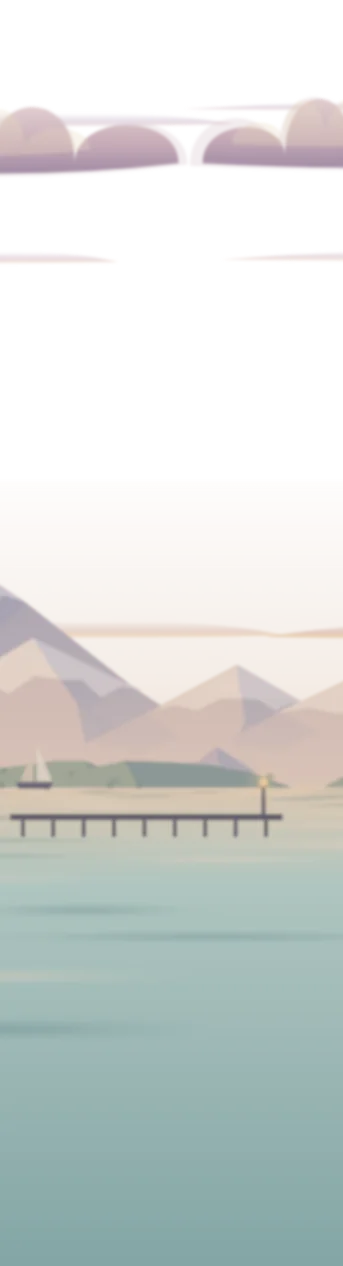
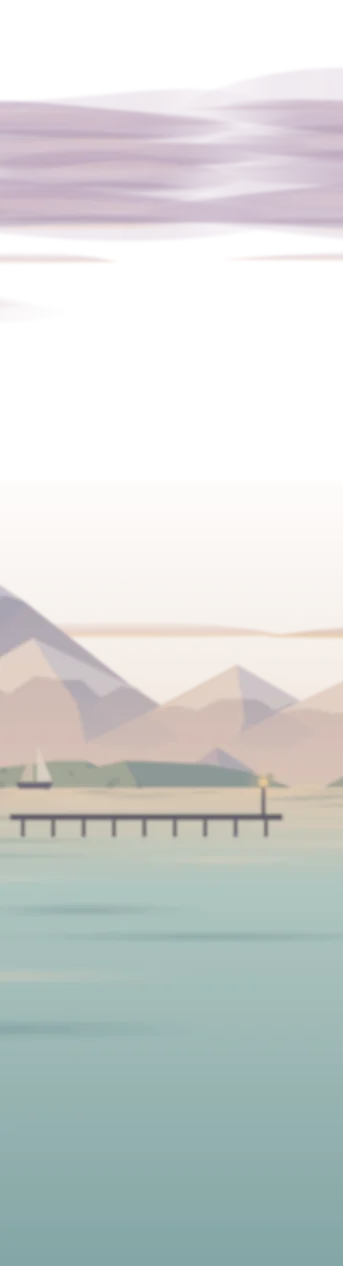
Brush clouds, night moon, detailed wood stove
Claude-Session: https://claude.ai/code/session_01EHtmNVvLo6L45VFzzqfGpi

Changed region(s): [[0.0, 0.0616, 1.0, 0.1848]]

diff --git a/assets/js/nature.js b/assets/js/nature.js
@@ -453,6 +453,30 @@ function sunsetCloud(x, y, w, h, sunX, tones) {
     + `<path d="${shape(1, 0)}" fill="url(#${id})"/>`
     + `<path d="${shape(.62, -h * .3)}" fill="${rim}" opacity=".32" transform="translate(${n1(side * w * .12)} 0)"/>`;
 }
+// 筆でなでたような横長の雲（作品 Sunset Session の空の描き方）：両端がすっと消える細長い帯を、少しずつずらして重ねる。
+// 輪郭の線もぼかしも使わず、帯の芯・まわり・下の縁（夕日の照り返し）を透明度の違う面で重ねて柔らかく見せる
+function brushCloud(x, y, w, h, g, sunX, tones) {
+  const [body, core, under, rim] = tones, id = `bc${gid++}`, ids = [body, core, under, rim].map((c, i) => [`${id}${i}`, c]);
+  let s = `<defs>${ids.map(([k, c]) => `<linearGradient id="${k}"><stop offset="0" stop-color="${c}" stop-opacity="0"/><stop offset=".22" stop-color="${c}" stop-opacity=".85"/><stop offset=".7" stop-color="${c}" stop-opacity=".9"/><stop offset="1" stop-color="${c}" stop-opacity="0"/></linearGradient>`).join('')}</defs>`;
+  // 1 本の帯：上下の縁がゆるく波打ち、両端は細くなる
+  const streak = (cx, cy, L, t, fill, op) => {
+    const N = 14, ph = g() * 6, top = [], bot = [];
+    for (let i = 0; i <= N; i++) { const u = i / N, xx = cx - L / 2 + L * u, taper = Math.pow(Math.sin(Math.PI * u), .55), wave = Math.sin(u * 5 + ph) * t * .18; top.push([xx, cy - t / 2 * taper + wave]); bot.push([xx, cy + t / 2 * taper * .8 + wave * .6]); }
+    return `<path d="M${top.map((q) => `${n1(q[0])} ${n2(q[1])}`).join('L')}L${bot.reverse().map((q) => `${n1(q[0])} ${n2(q[1])}`).join('L')}Z" fill="url(#${fill})" opacity="${n2(op)}"/>`;
+  };
+  const toSun = Math.max(0, 1 - Math.abs(x - sunX) / 90); // 太陽に近い雲ほど芯が明るい
+  const n = 3 + Math.floor(g() * 3);
+  for (let i = 0; i < n; i++) {
+    const cx = x + (g() - .5) * w * .4, cy = y + (i - (n - 1) / 2) * h * .38 + (g() - .5) * h * .2, L = w * (.55 + g() * .6), t = h * (.35 + g() * .3);
+    s += streak(cx, cy, L * 1.12, t * 1.9, ids[0][0], .28);                         // まわりのかすみ
+    s += streak(cx + (g() - .5) * 2, cy, L, t, ids[0][0], .75);                      // 帯
+    s += streak(cx + (g() - .5) * 3, cy - t * .12, L * .62, t * .42, ids[1][0], .45 + toSun * .35); // 芯の明るいところ
+    s += streak(cx + (g() - .5) * 3, cy + t * .34, L * .7, t * .3, ids[2][0], .5);   // 下の影
+    s += streak(cx + (g() - .5) * 3, cy + t * .5, L * .5, t * .16, ids[3][0], .25 + toSun * .45); // 下の縁の夕日の照り返し
+  }
+  track(x - w, y - h); track(x + w, y + h);
+  return s;
+}
 // 細くたなびく雲（地平線近く）：下の縁が夕日に照らされる
 function streakCloud(x0, x1, y, h, c, lit) {
   const id = `st${gid++}`;
@@ -1763,7 +1787,9 @@ export function sceneCove(W, stops, { night = false } = {}) {
   // 夕焼けの雲：高いところは淡い藤色、低いところほど夕日に染まる。太陽側の縁が金色に光る（重いぼかしは使わない）
   const sx = at(W, FACTORS.far)(1, W * .62);
   far += streakCloud(-10, fw + 10, 9, 1.1, '#d9c3dc', '#f3d6d8') + streakCloud(-10, fw + 10, 20, 1, '#e0bfcf', '#fbd9c6');
-  for (let x = R(-12, 4); x < fw + 20; x += R(16, 30)) { const y = R(12, 46), k = (y - 12) / 34, big = R(.8, 1.5); far += sunsetCloud(x, y, R(20, 34) * big, R(3, 5) * big, sx, [mixC('#f6e0e2', '#ffe9cc', k), mixC('#dcbccb', '#f2c2ae', k), mixC('#b39bb9', '#cf9ea2', k), '#fff0cf']); }
+  // 雲は作品の空のように、筆でなでた横長の帯で（前のもこもこの雲は、乱数の呼び出しだけ残して描かない）
+  const gC = hrng(fw + 1.9);
+  for (let x = R(-12, 4); x < fw + 20; x += R(16, 30)) { const y = R(12, 46), k = (y - 12) / 34, big = R(.8, 1.5); const cw = R(20, 34) * big, ch = R(3, 5) * big; sunsetCloud(x, y, cw, ch, sx, ['#fff', '#fff', '#fff', '#fff']); far += brushCloud(x, y, cw * 1.5, ch * 1.1, gC, sx, [mixC('#d6bdd6', '#efbcb6', k), mixC('#f4dde2', '#ffe2c4', k), mixC('#b7a0c0', '#d49fa8', k), mixC('#ffd9c4', '#ffd09a', k)]); }
   far += streakCloud(-10, fw + 10, hz - 13, 1.4, '#e7b6ae', '#ffcf8f');
   // 夜（入口のランプで夜にしたとき）は夕日を描かない（乱数の呼び出しだけ合わせる）
   { const sun = setSun(sx, hz - 6, 4.8); if (!night) far += sun; }
@@ -1869,9 +1895,19 @@ export function sceneCove(W, stops, { night = false } = {}) {
   frame += guard(Z, (k) => frond(W + 3, -3, 40 * k, -150, '#3b4a3f', '#4d5d4c', { droop: 1.2 })) + guard(Z, (k) => frond(W + 2, 6, 28 * k, -118, '#34423a', '#46574a', { droop: 1.1 }));
   for (const side of [-1, 1]) for (let i = 0; i < 4; i++) { const x = side < 0 ? R(-3, W * .14) : W - R(-3, W * .14); ground += guard(Z, (k) => tuft(x, 106, R(12, 18) * k, ['#5f5b3c', '#77704a', '#8f8558'], 9)); }
   move += tileGround(W, stops, ground);
+  // 夜：夕日の代わりに満月と、またたく星（どちらも画面に直接置くので、夜の色に変換されずに光る）。月の光の道は museum.js
+  let skyDom = null, moonAt = null;
+  if (night) {
+    const gN = hrng(fw + 5.3), mr = W < 80 ? 3.1 : 3.9, mx = at(W, FACTORS.far)(.35, W * .5), my = W < 80 ? 22 : 20;
+    moonAt = [mx, hz];
+    const bright = [];
+    for (let i = 0; i < fw * .09; i++) { const x = gN() * fw, y = 3 + Math.pow(gN(), 1.4) * 34; if (Math.hypot(x - mx, y - my) < 11) continue; bright.push([n1(x), n1(y), n2(.9 + gN() * 1.2), ['#fffaf0', '#e3ebff', '#ffe9c8'][Math.floor(gN() * 3)], n2(gN() * 5)]); }
+    skyDom = { moon: { x: mx, y: my, r: mr, kind: 'full', halo: true }, bright };
+  }
   return {
+    skyDom,
     sky: 'linear-gradient(#aebbd6 0%, #e3b8b3 28%, #f3c69c 46%, #f8dcb0 58%, #f6e2c4 62%, #bfd9d3 66%, #86b3b3 100%)',
-    far: [fw, far], mid: [mw, mid], move: [vw, move], frame, fx: 'cove', glowDefault: [255, 214, 170], foam: 79, harbor, plane: true, houses, sunpath: [sx, hz],
+    far: [fw, far], mid: [mw, mid], move: [vw, move], frame, fx: 'cove', glowDefault: [255, 214, 170], foam: 79, harbor, plane: true, houses, sunpath: night ? moonAt : [sx, hz], moonpath: night,
     curtain: ['#1c3a3a', '#2a5550', '#3f7f73', '#5aa77a', '#7cc0a0'],
   };
 }
@@ -2058,6 +2094,47 @@ export function ferrisSVG(r, part = 'wheel') {
   for (let k = 0; k < 36; k++) { const a = k / 36 * Math.PI * 2; s += `<circle cx="${n1(Math.cos(a) * r)}" cy="${n1(Math.sin(a) * r)}" r=".26" fill="${lamp[k % 4]}"/>`; }
   for (let k = 0; k < FERRIS_N; k++) for (let t = .38; t < .86; t += .14) { const a = k / FERRIS_N * Math.PI * 2; s += `<circle cx="${n1(Math.cos(a) * r * t)}" cy="${n1(Math.sin(a) * r * t)}" r=".14" fill="#ffe7a8" opacity=".75"/>`; }
   return `<svg viewBox="${n1(-R2)} ${n1(-R2)} ${n1(R2 * 2)} ${n1(R2 * 2)}" xmlns="http://www.w3.org/2000/svg">${s}</svg>`;
+}
+// 薪ストーブ（鋳物）：脚つきの箱、縁の張り出した天板、焚き口の扉（蝶番と取っ手）、灰受け、煙突は壁の丸い受け口へ。
+// 焚き口のガラスの奥は、おき火で下ほど明るく、薪が 2 本交差する。炎と火の粉、壁と床に広がる火の光は museum.js
+function woodStove(m, k, sw, sh) {
+  const top = 80 - sh, L = m - sw / 2, gx = m - sw * .32, gy = top + sh * .3, gw = sw * .64, gh = sh * .42, id = `ws${gid++}`;
+  const P = (d, f, o) => `<path d="${d}" fill="${f}"${o != null ? ` opacity="${o}"` : ''}/>`;
+  let s = rglow(m, 80 - sh * .6, 16 * k, '#ff9a4a', .45);
+  s += `<defs><linearGradient id="${id}g" x1="0" y1="0" x2="0" y2="1"><stop offset="0" stop-color="#4a2014"/><stop offset=".45" stop-color="#a8431f"/><stop offset=".8" stop-color="#f08a3a"/><stop offset="1" stop-color="#ffc56a"/></linearGradient>`
+    + `<linearGradient id="${id}b" x1="0" y1="0" x2="1" y2="0"><stop offset="0" stop-color="#171311"/><stop offset=".5" stop-color="#231d19"/><stop offset="1" stop-color="#1a1512"/></linearGradient></defs>`;
+  // 脚（少し外に反る）
+  for (const sx of [-1, 1]) s += P(`M${n1(m + sx * (sw / 2 - 1.1 * k))} 78.6L${n1(m + sx * (sw / 2 - .4 * k))} 78.6L${n1(m + sx * (sw / 2 - .05 * k))} 80.3L${n1(m + sx * (sw / 2 - .7 * k))} 80.3Z`, '#1a1512');
+  // 胴（角を少し丸く）と、左右の縁の暗い面
+  s += `<rect x="${n1(L)}" y="${n1(top + .9 * k)}" width="${n1(sw)}" height="${n1(sh - 1.5 * k)}" rx="${n1(.35 * k)}" fill="url(#${id}b)"/>`;
+  s += P(`M${n1(L)} ${n1(top + 1 * k)}h${n1(.55 * k)}V${n1(78.8)}h${n1(-.55 * k)}Z`, '#120f0d') + P(`M${n1(L + sw - .55 * k)} ${n1(top + 1 * k)}h${n1(.55 * k)}V${n1(78.8)}h${n1(-.55 * k)}Z`, '#120f0d');
+  // 天板：縁が張り出し、上の面は火の熱でほんのり赤い
+  s += `<rect x="${n1(L - .45 * k)}" y="${n1(top + .15 * k)}" width="${n1(sw + .9 * k)}" height="${n1(.8 * k)}" rx="${n1(.2 * k)}" fill="#2b2420"/>` + P(`M${n1(L - .3 * k)} ${n1(top + .15 * k)}h${n1(sw + .6 * k)}v${n1(.22 * k)}h${n1(-sw - .6 * k)}Z`, '#5a4034', .8);
+  // 胴の飾りの帯
+  s += P(`M${n1(L + .8 * k)} ${n1(top + 1.6 * k)}h${n1(sw - 1.6 * k)}v${n1(.28 * k)}h${n1(-sw + 1.6 * k)}Z`, '#2c2521');
+  // 焚き口の扉（ガラスより一回り大きい板）と蝶番・取っ手
+  s += `<rect x="${n1(gx - .7 * k)}" y="${n1(gy - .7 * k)}" width="${n1(gw + 1.4 * k)}" height="${n1(gh + 1.4 * k)}" rx="${n1(.4 * k)}" fill="#2a2320"/>`;
+  for (const t of [.22, .78]) s += `<rect x="${n1(gx - 1.05 * k)}" y="${n1(gy + gh * t - .35 * k)}" width="${n1(.5 * k)}" height="${n1(.7 * k)}" rx="${n1(.12 * k)}" fill="#3a302a"/>`;
+  s += `<rect x="${n1(gx + gw + .25 * k)}" y="${n1(gy + gh * .28)}" width="${n1(.34 * k)}" height="${n1(gh * .44)}" rx="${n1(.17 * k)}" fill="#4a3b31"/>`;
+  // ガラスの奥：おき火で下ほど明るい。交差する 2 本の薪と、薪の下の縁のおき火
+  s += `<rect x="${n1(gx)}" y="${n1(gy)}" width="${n1(gw)}" height="${n1(gh)}" rx="${n1(.3 * k)}" fill="url(#${id}g)"/>`;
+  const ly = gy + gh * .8;
+  s += `<g transform="rotate(-9 ${n1(m)} ${n1(ly)})"><rect x="${n1(gx + gw * .1)}" y="${n1(ly - .45 * k)}" width="${n1(gw * .72)}" height="${n1(.9 * k)}" rx="${n1(.45 * k)}" fill="#2c1a12"/><rect x="${n1(gx + gw * .14)}" y="${n1(ly + .2 * k)}" width="${n1(gw * .64)}" height="${n1(.25 * k)}" rx="${n1(.12 * k)}" fill="#ff8a3a" opacity=".85"/></g>`;
+  s += `<g transform="rotate(11 ${n1(m)} ${n1(ly)})"><rect x="${n1(gx + gw * .2)}" y="${n1(ly - .35 * k)}" width="${n1(gw * .7)}" height="${n1(.8 * k)}" rx="${n1(.4 * k)}" fill="#3a2116"/><rect x="${n1(gx + gw * .24)}" y="${n1(ly + .22 * k)}" width="${n1(gw * .6)}" height="${n1(.2 * k)}" rx="${n1(.1 * k)}" fill="#ffb356" opacity=".8"/></g>`;
+  s += `<ellipse cx="${n1(m)}" cy="${n1(gy + gh - .25 * k)}" rx="${n1(gw * .42)}" ry="${n1(.35 * k)}" fill="#ffd27a" opacity=".75"/>`;
+  // ガラスの上の縁は煤で暗く
+  s += P(`M${n1(gx)} ${n1(gy + .3 * k)}Q${n1(gx)} ${n1(gy)} ${n1(gx + .3 * k)} ${n1(gy)}H${n1(gx + gw - .3 * k)}Q${n1(gx + gw)} ${n1(gy)} ${n1(gx + gw)} ${n1(gy + .3 * k)}V${n1(gy + gh * .22)}H${n1(gx)}Z`, '#2a120b', .45);
+  // 灰受けの引き出し
+  s += `<rect x="${n1(gx - .2 * k)}" y="${n1(gy + gh + 1.2 * k)}" width="${n1(gw + .4 * k)}" height="${n1(1.1 * k)}" rx="${n1(.2 * k)}" fill="#2a2320"/><rect x="${n1(m - .6 * k)}" y="${n1(gy + gh + 1.55 * k)}" width="${n1(1.2 * k)}" height="${n1(.35 * k)}" rx="${n1(.17 * k)}" fill="#4a3b31"/>`;
+  // 扉のまわりに当たる火の照り返し
+  s += P(`M${n1(gx - .7 * k)} ${n1(gy + gh + .7 * k)}h${n1(gw + 1.4 * k)}v${n1(.22 * k)}h${n1(-gw - 1.4 * k)}Z`, '#ff9a4a', .35);
+  // 煙突：天板から上へ。途中に継ぎ目の帯、上は曲がって壁の丸い受け口へ入る
+  const px = m + 2 * k, pw = 1.4 * k, py = 55;
+  s += P(`M${n1(px)} ${n1(top + .2 * k)}V${n1(py)}h${n1(pw)}V${n1(top + .2 * k)}Z`, '#1d1916') + P(`M${n1(px + pw * .62)} ${n1(top + .2 * k)}V${n1(py)}h${n1(pw * .38)}V${n1(top + .2 * k)}Z`, '#15110f');
+  for (const yy of [top - 2.2 * k, py + 2.4 * k]) s += `<rect x="${n1(px - .15 * k)}" y="${n1(yy)}" width="${n1(pw + .3 * k)}" height="${n1(.45 * k)}" rx="${n1(.1 * k)}" fill="#2a2522"/>`;
+  s += `<circle cx="${n1(px + pw / 2)}" cy="${n1(py - .3 * k)}" r="${n1(1.55 * k)}" fill="#2a2320"/><circle cx="${n1(px + pw / 2)}" cy="${n1(py - .3 * k)}" r="${n1(1.2 * k)}" fill="#1c1714"/>`;
+  s += P(`M${n1(px)} ${n1(py + .5 * k)}V${n1(py - .3 * k)}A${n1(pw / 2)} ${n1(pw / 2)} 0 0 1 ${n1(px + pw)} ${n1(py - .3 * k)}V${n1(py + .5 * k)}Z`, '#1d1916');
+  return s;
 }
 // 薪ストーブの火（揺れる炎と、舞い上がる火の粉）
 export function fireSVG() {
@@ -2517,7 +2594,7 @@ export function sceneAttic(W, stops, { birdGap = -1 } = {}) {
     if (shW >= 10) mid += shelf(m - shW / 2, 26, shW) + shelf(m - shW / 2, 40, shW);
     // 薪ストーブは床に置き、煙突は壁ぞいに天井へ（すき間が狭いときは置かない）
     // 薪ストーブ（鋳物の箱に脚、焚き口のガラス、上に煙突）。家具に合わせて大きめに
-    if (gap >= 11) { const k = 2.1, sw = 8 * k, sh = 9 * k, top = 80 - sh; mid += rglow(m, 80 - sh * .6, 16 * k, '#ff9a4a', .45) + `<path d="M${n1(m - sw / 2)} ${n1(79)}v${n1(-sh + 1)}h${n1(sw)}v${n1(sh - 1)}Z" fill="#1d1916"/><path d="M${n1(m - sw / 2 - .6)} ${n1(top)}h${n1(sw + 1.2)}v1h${n1(-sw - 1.2)}Z" fill="#2a2522"/><path d="M${n1(m - sw / 2 + .6)} 79v1.2M${n1(m + sw / 2 - .6)} 79v1.2" stroke="#1d1916" stroke-width=".8"/><rect x="${n1(m - sw * .32)}" y="${n1(top + sh * .3)}" width="${n1(sw * .64)}" height="${n1(sh * .42)}" rx=".4" fill="#ff8a3a"/><rect x="${n1(m - sw * .32)}" y="${n1(top + sh * .3)}" width="${n1(sw * .64)}" height="${n1(sh * .42)}" rx=".4" fill="none" stroke="#3a3430" stroke-width=".6"/><path d="M${n1(m + 2 * k)} ${n1(top)}V52h${n1(1.4 * k)}V${n1(top)}Z" fill="#1d1916"/><ellipse cx="${n1(m + 2.7 * k)}" cy="52.4" rx="${n1(2.2 * k)}" ry="${n1(1.3 * k)}" fill="#2a1c12"/><ellipse cx="${n1(m + 2.7 * k)}" cy="52.4" rx="${n1(1.5 * k)}" ry="${n1(.85 * k)}" fill="#4a3a2c"/>`; stove = [m, 80, k]; }
+    if (gap >= 11) { const k = 2.1, sw = 8 * k, sh = 9 * k; mid += woodStove(m, k, sw, sh); stove = [m, 80, k]; }
   }
   // 壁に掛けたスケートボード：作品の枠にかからないときだけ
   const sk = [[wallX + 8, 26, '#d4d0b5', '#b8604a'], [wallX + 14, 27, '#3f5d59', '#e2b36f']];

diff --git a/assets/css/museum.css b/assets/css/museum.css
@@ -889,6 +889,14 @@ body.choosing .loader-choose { opacity: 1; transform: none; pointer-events: auto
 @keyframes refl { from { transform: translateX(-56%) scaleX(.8); opacity: .25; } to { transform: translateX(-44%) scaleX(1.1); opacity: .55; } }
 .puddle-shine { border-radius: 50%; background: radial-gradient(closest-side, rgba(255, 220, 150, .5), rgba(255, 200, 115, .18) 55%, transparent); mix-blend-mode: screen; animation: pshine 3.2s ease-in-out infinite alternate; }
 @keyframes pshine { from { opacity: .35; transform: scaleX(.92); } to { opacity: 1; transform: scaleX(1.06); } }
+/* 薪ストーブの火の光（壁と床）。2 枚の周期をずらして、揺れがくり返しに見えないように */
+.firelight { pointer-events: none; mix-blend-mode: screen; }
+.firelight i { position: absolute; inset: 0; border-radius: 50%; will-change: opacity, transform; }
+.firelight.wall i { background: radial-gradient(closest-side, rgba(255, 150, 70, .08), rgba(255, 150, 70, .08) 20%, rgba(255, 140, 64, .3) 34%, rgba(255, 130, 60, .13) 58%, rgba(255, 120, 50, 0)); animation: fireflick 2.3s linear infinite; }
+.firelight.wall i + i { background: radial-gradient(closest-side, rgba(255, 190, 110, 0) 18%, rgba(255, 190, 110, .16) 32%, rgba(255, 160, 80, 0) 64%); animation-duration: 3.7s; animation-direction: reverse; }
+.firelight.floor i { background: radial-gradient(closest-side, rgba(255, 160, 80, .5), rgba(255, 130, 60, .18) 50%, rgba(255, 120, 50, 0)); transform-origin: 50% 0; animation: fireflick 1.9s linear infinite; }
+.firelight.floor i + i { animation-duration: 3.1s; animation-delay: -1.2s; opacity: .6; }
+@keyframes fireflick { 0% { opacity: .78; transform: scale(1); } 11% { opacity: .96; transform: scale(1.02); } 19% { opacity: .7; } 33% { opacity: 1; transform: scale(1.03); } 46% { opacity: .82; transform: scale(.99); } 58% { opacity: .94; } 66% { opacity: .68; transform: scale(1); } 79% { opacity: .97; transform: scale(1.025); } 90% { opacity: .76; } 100% { opacity: .78; transform: scale(1); } }
 .stove-fire .flame { transform-box: fill-box; transform-origin: 50% 100%; animation: flame .55s steps(3, end) infinite alternate; }
 @keyframes flame { 0% { transform: scale(1, 1); } 40% { transform: scale(.92, 1.12) skewX(3deg); } 100% { transform: scale(1.06, .9) skewX(-4deg); } }
 .stove-fire .ember { animation: ember 2.6s linear var(--d) infinite; opacity: 0; }
@@ -909,7 +917,7 @@ body.choosing .loader-choose { opacity: 1; transform: none; pointer-events: auto
 .swimmer, .flyer, .ripple { will-change: transform; }
 /* 画面にない部屋では、動くものを止めておく */
 .room:not(.live) .living, .room:not(.live) .swimmer, .room:not(.live) .flyer { display: none; }
-@media (prefers-reduced-motion: reduce) { .puddle-shine, .stove-fire .flame, .stove-fire .ember, .win-snow .wsnow, .flyer .wing, .swimmer .wing { animation: none !important; } }
+@media (prefers-reduced-motion: reduce) { .firelight i, .puddle-shine, .stove-fire .flame, .stove-fire .ember, .win-snow .wsnow, .flyer .wing, .swimmer .wing { animation: none !important; } }
 
 /* 入口で動くもの（中景と同じ拡大・視差） */
 #entrance .plane.life { width: 100%; }
@@ -1093,4 +1101,4 @@ body.forest-night .farewell .fw-glow { opacity: 1; }
 .wclock .hh { width: 7%; height: 23%; margin-left: -3.5%; }
 .wclock .mh { width: 4.5%; height: 36%; margin-left: -2.25%; }
 .wclock .cap { width: 12%; height: 12%; margin: 0 0 -6% -6%; border-radius: 50%; background: #b8925e; transform: none; }
-.room.moonlit .sunpath { display: none; } /* 夜は夕日がないので、光の道も出さない */
+.sunpath.moon i { background: radial-gradient(closest-side, rgba(250, 246, 226, .8), rgba(214, 222, 246, .3) 55%, rgba(200, 210, 240, 0)); } /* 夜は月の光の道（白く冷たい光） */

diff --git a/assets/js/museum.js b/assets/js/museum.js
@@ -694,7 +694,7 @@ function buildLiving(r) {
   if (D.sunpath) {
     const [x, hz] = D.sunpath, n = COARSE ? 9 : 14;
     const bars = Array.from({ length: n }, (_, i) => { const t = i / (n - 1), w = 12 + t * 80; return `<i style="top:${(t * t * 100).toFixed(1)}%;left:${(50 - w / 2 + Math.sin(i * 2.1) * t * 6).toFixed(1)}%;width:${w.toFixed(1)}%;height:${(.25 + t * .7).toFixed(2)}vh;animation-duration:${(2.6 + (i * 1.7) % 2.4).toFixed(1)}s;animation-delay:${(-(i * .83) % 3).toFixed(2)}s"></i>`; }).join('');
-    S.insertAdjacentHTML('beforeend', gradeColors(`<div class="living sunpath" style="left:${((x - 9) * U).toFixed(1)}px;top:${((hz + .4) * U).toFixed(1)}px;width:18vh;height:17vh">${bars}</div>`, gradeOf(r.room.scene)));
+    S.insertAdjacentHTML('beforeend', gradeColors(`<div class="living sunpath${D.moonpath ? ' moon' : ''}" style="left:${((x - 9) * U).toFixed(1)}px;top:${((hz + .4) * U).toFixed(1)}px;width:18vh;height:17vh">${bars}</div>`, gradeOf(r.room.scene)));
   }
   // 夕凪の浜：海の面のゆらぎ。空を映す明るいゆらぎと、うねりの暗い帯が、ゆっくり寄っては離れて明滅する（奥ほど細く短く、ゆっくり）
   if (D.sunpath) {
@@ -717,6 +717,9 @@ function buildLiving(r) {
     P.insertAdjacentHTML('beforeend', `<i class="living wetshine" style="left:-5vh;top:${((D.foam + .8) * U).toFixed(1)}px;width:${mw + 10}vh;height:3.2vh"></i>` + sheet('', 0) + sheet(' s2', -19));
   }
   if (D.mug) { const [x, y] = D.mug; P.insertAdjacentHTML('beforeend', `<div class="living steam" style="left:${((x - 1) * U).toFixed(1)}px;top:${((y - 4) * U).toFixed(1)}px"><i></i><i></i><i></i></div>`); }
+  // 薪ストーブの火の光：焚き口から壁へ広がる光と、床に落ちる光だまりが、炎に合わせて不規則に揺らめく（周期の違う 2 枚を重ねて、同じ揺れのくり返しに見えないように）
+  if (D.stove) { const [x, y, k = 1] = D.stove, sh = 9 * k, gy = y - sh + sh * .51, ww = 44 * k * (W < 80 ? .8 : 1), wh = 34 * k, fw2 = 30 * k * (W < 80 ? .8 : 1);
+    P.insertAdjacentHTML('beforeend', `<div class="living firelight wall" style="left:${((x - ww / 2) * U).toFixed(1)}px;top:${((gy - wh / 2) * U).toFixed(1)}px;width:${ww.toFixed(1)}vh;height:${wh.toFixed(1)}vh"><i></i><i></i></div><div class="living firelight floor" style="left:${((x - fw2 / 2) * U).toFixed(1)}px;top:${((y - .6) * U).toFixed(1)}px;width:${fw2.toFixed(1)}vh;height:${(9 * k * .55).toFixed(1)}vh"><i></i><i></i></div>`); }
   if (D.stove) { const [x, y, k = 1] = D.stove, sh = 9 * k, fw = 4.8 * k * .9; P.insertAdjacentHTML('beforeend', `<div class="living stove-fire" style="left:${((x - fw / 2) * U).toFixed(1)}px;top:${((y - sh + sh * .3 + sh * .42 - fw * 13 / 8 + .3) * U).toFixed(1)}px;width:${fw.toFixed(2)}vh">${fireSVG()}</div>`); } // 炎の根もとが焚き口（y−3.2）に来るように
   // 水辺：蓮の葉と水草のまわりに、ゆっくり広がって消える波紋（2 重の輪を時間をずらして）。数は画面の広さに合わせて控えめに
   // 桟橋の板（y 87〜92.6）にかかる波紋は出さない（いちばん広がったときの輪の大きさで判定）
